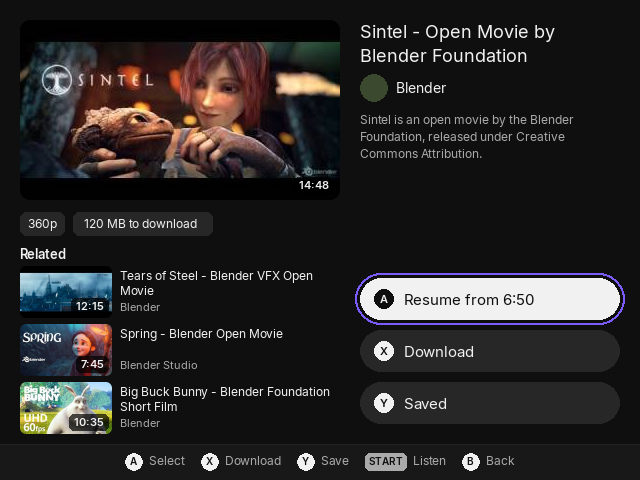
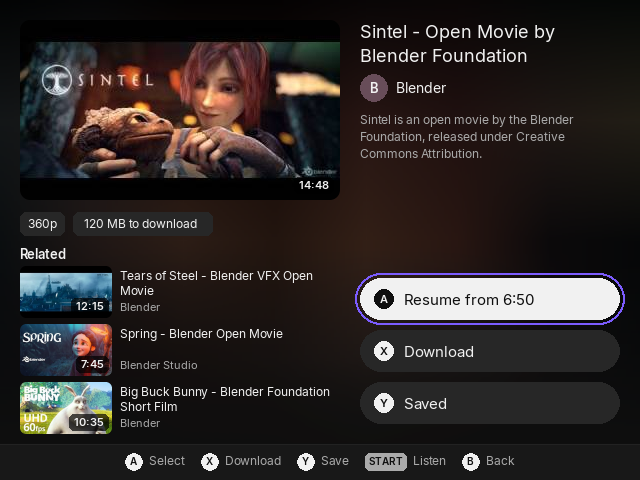
Glide the active tab pill, add Watch later to Home, ambient video background, empty states

diff --git a/userdata/system/pockettube/main.py b/userdata/system/pockettube/main.py
@@ -43,6 +43,7 @@ ERR_SOFT = (255, 138, 155)
 BADGE = (0, 0, 0, 175)  # translucent duration badge
 FOCUS_W = 2  # width of the accent focus ring
 CARD_ZOOM = 1.04  # focused Home card scale
+AMBIENT = (85, 85, 85)  # brightness of the blurred thumbnail behind the video screen (multiplied, 255 = full)
 ERR_BG, ERR_FG = (58, 20, 24), (255, 218, 223)
 TINTS = [(59, 47, 74), (47, 74, 68), (74, 59, 47), (47, 61, 74), (74, 47, 59), (59, 74, 47)]
 
@@ -162,6 +163,7 @@ class App:
             pass
         self.logo_cache = {}
         self.masks, self.round_cache, self.badges = {}, {}, {}
+        self.ambient_bg = (None, None)
         self.toasts = []
         self.anims, self.anim_prev, self.anim_now, self.focus_ring, self.list_off = {}, set(), set(), None, 0
         self.store = store_mod.Store()
@@ -175,7 +177,7 @@ class App:
 
         self.view = "home" if services.is_online() else "offline"
         self.back_view = "home"
-        self.home_row, self.home_col = 0, 0
+        self.home_row, self.home_col, self.home_chip_n = 0, 0, 6
         self.query, self.lang = "", self.store.settings.get("kb_layout", "en")
         self.kx, self.ky = 0, 1
         self.sugg, self.sugg_i, self.sugg_for, self.sugg_due, self.sugg_task = [], 0, "", 0, None
@@ -321,12 +323,23 @@ class App:
             total = sum(widths) + 4 * (len(TABS) - 1) + 2 * (26 + 5)
             x = 54 + max(0, (468 - total) // 2)
             x += self.draw_key("L1", x, 14, small=True) + 5
-            for name, label, w in zip(TABS, labels, widths):
-                on = name == active
-                pygame.draw.rect(s, FG if on else SURF, (x, 11, w, 26), border_radius=8)
-                text(s, label, (x + w // 2, 16), 12, INK if on else FG, on, center=True)
+            spots = []
+            for w in widths:
+                spots.append((x, w))
                 x += w + 4
             self.draw_key("R1", x, 14, small=True)
+            # one pill glides to the active tab; labels are light text, and dark only inside the pill,
+            # so every in-between frame reads correctly
+            for label, (tx, w) in zip(labels, spots):
+                text(s, label, (tx + w // 2, 16), 12, DIM, center=True)
+            if active in TABS:
+                px, pw = self.anim("tab_pill", spots[TABS.index(active)], 0.4)
+                pill = pygame.Rect(round(px), 11, round(pw), 26)
+                pygame.draw.rect(s, FG, pill, border_radius=13)
+                s.set_clip(pill)
+                for name, label, (tx, w) in zip(TABS, labels, spots):
+                    text(s, label, (tx + w // 2, 16), 12, INK, name == active, center=True)
+                s.set_clip(None)
         self.draw_status(W - 16, 24)
 
     def draw_key(self, label, x, y, small=False, light=True):
@@ -435,10 +448,38 @@ class App:
         elif status:
             text(s, status, (156, cy + 17), 12, DIM)
 
-    def draw_list(self, items, sel, top_y, row_fn, empty_text):
+    def draw_icon(self, kind, cx, cy, color):
+        """Simple line icons for empty states, about 28 px."""
         s = self.screen
+        if kind == "search":
+            pygame.draw.circle(s, color, (cx - 3, cy - 3), 10, 3)
+            pygame.draw.line(s, color, (cx + 5, cy + 5), (cx + 12, cy + 12), 4)
+        elif kind == "history":
+            pygame.draw.circle(s, color, (cx, cy), 13, 3)
+            pygame.draw.line(s, color, (cx, cy), (cx, cy - 8), 3)
+            pygame.draw.line(s, color, (cx, cy), (cx + 6, cy + 4), 3)
+        elif kind == "download":
+            pygame.draw.line(s, color, (cx, cy - 13), (cx, cy + 3), 3)
+            pygame.draw.polygon(s, color, [(cx - 7, cy - 2), (cx + 7, cy - 2), (cx, cy + 6)])
+            pygame.draw.line(s, color, (cx - 12, cy + 12), (cx + 12, cy + 12), 3)
+        else:  # list
+            for i in range(3):
+                pygame.draw.circle(s, color, (cx - 10, cy - 8 + i * 8), 2)
+                pygame.draw.line(s, color, (cx - 4, cy - 8 + i * 8), (cx + 12, cy - 8 + i * 8), 3)
+
+    def draw_empty(self, title, hint=None, icon="list", top_y=60):
+        s = self.screen
+        cy = top_y + (H - 36 - top_y) // 2 - 40
+        pygame.draw.circle(s, SURF_LOW, (W // 2, cy), 40)
+        self.draw_icon(icon, W // 2, cy, MUTED)
+        text(s, title, (W // 2, cy + 54), 16, FG, center=True, max_w=W - 60)
+        if hint:
+            for i, line in enumerate(wrap(hint, font(13), W - 120, 2)):
+                text(s, line, (W // 2, cy + 80 + i * 18), 13, DIM, center=True)
+
+    def draw_list(self, items, sel, top_y, row_fn, empty_text, icon="list", hint=None):
         if not items:
-            text(s, empty_text, (W // 2, top_y + 120), 14, DIM, center=True)
+            self.draw_empty(empty_text, hint, icon, top_y)
             return
         per = max(1, (H - 36 - top_y) // 84)
         first = max(0, min(sel - 1, len(items) - per))
@@ -503,16 +544,38 @@ class App:
         self.draw_toasts()
         pygame.display.flip()
 
+    def home_rows(self):
+        """Home sections that have something to focus, top to bottom: [(name, items)]."""
+        wl = self.store.playlist(store_mod.WATCH_LATER) or {}
+        rows = [("cards", self.home_cards()), ("later", (wl.get("items") or [])[:4]),
+                ("chips", self.store.queries[:min(6, self.home_chip_n)])]
+        return [(name, items) for name, items in rows if items]
+
+    def home_focus(self):
+        rows = self.home_rows()
+        if not rows:
+            return None, 0
+        self.home_row = max(0, min(self.home_row, len(rows) - 1))
+        name, items = rows[self.home_row]
+        self.home_col = max(0, min(self.home_col, len(items) - 1))
+        return name, self.home_col
+
     def draw_home(self):
         s = self.screen
         self.draw_header("home")
-        text(s, T("continue_watching"), (16, 60), 15, FG, True)
+        focus = self.home_focus()
         cards = self.home_cards()
-        if not cards:
-            text(s, T("home_empty"), (16, 92), 13, DIM)
+        later = (self.store.playlist(store_mod.WATCH_LATER) or {}).get("items") or []
+        hints = [("A", T("hint_open")), ("Y", T("hint_search")), ("L1 R1", T("hint_sections")), ("SELECT", T("settings")), ("B", T("hint_exit"))]
+        if not (cards or later or self.store.queries):  # first run: one welcoming empty state
+            self.draw_empty(T("home_empty"), T("searches_empty"), "search", 48)
+            self.draw_footer(hints)
+            return
+        if cards:
+            text(s, T("continue_watching"), (16, 60), 15, FG, True)
         for i, v in enumerate(cards):
             x, y = 16 + i * 200, 88
-            on = self.home_row == 0 and self.home_col == i
+            on = focus == ("cards", i)
             # the focused card grows a little; ring targets the final size so it doesn't chase the zoom
             zoom = self.anim(f"zoom:{v['id']}", (CARD_ZOOM if on else 1.0,))[0]
             full = pygame.Rect(0, 0, round(188 * CARD_ZOOM), round(106 * CARD_ZOOM))
@@ -531,15 +594,32 @@ class App:
             for j, line in enumerate(wrap(v["title"], font(12), 188, 2)):
                 text(s, line, (x, y + 112 + j * 15), 12, FG)
             text(s, v.get("channel", ""), (x, y + 144), 11, DIM, max_w=188)
-        text(s, T("recent_searches"), (16, 262), 15, FG, True)
+        top = 248 if cards else 56  # an empty "Continue watching" is hidden when there's other content
+        if later:
+            text(s, T("watch_later"), (16, top + 4), 15, FG, True)
+            for i, v in enumerate(later[:4]):
+                x, y = 16 + i * 150, top + 28
+                if focus == ("later", i):
+                    self.hl((x, y, 136, 77), 6, grow=6)
+                self.draw_thumb(v["id"], x, y, 136, 77, i)
+                live = v.get("live")
+                self.draw_badge("LIVE" if live else youtube.format_duration(v.get("duration")), x + 132, y + 73, red=live)
+                text(s, v.get("title", ""), (x, y + 81), 12, FG, max_w=136)
+            top += 124
+        head = top + (8 if later else 14 if cards else 4)
+        text(s, T("recent_searches"), (16, head), 15, FG, True)
         if not self.store.queries:
-            text(s, T("searches_empty"), (16, 292), 13, DIM)
-        x, y = 16, 290
+            text(s, T("searches_empty"), (16, head + 30), 13, DIM)
+        x, y = 16, head + 24 if later else head + 28
+        self.home_chip_n = 0
         for i, q in enumerate(self.store.queries[:6]):
             w = font(13).size(clean(q))[0] + 46
             if x + w > W - 16:
                 x, y = 16, y + 42
-            on = self.home_row == 1 and self.home_col == i
+            if y + 32 > H - 38:  # no room for another row of chips above the footer
+                break
+            self.home_chip_n = i + 1
+            on = focus == ("chips", i)
             if on:
                 self.hl((x, y, w, 32), 16, grow=8)
             pygame.draw.rect(s, FG if on else SURF, (x, y, w, 32), border_radius=16)
@@ -547,7 +627,7 @@ class App:
             pygame.draw.line(s, INK if on else DIM, (x + 19, y + 16), (x + 19, y + 12), 2)
             text(s, q, (x + 32, y + 8), 13, INK if on else FG)
             x += w + 8
-        self.draw_footer([("A", T("hint_open")), ("Y", T("hint_search")), ("L1 R1", T("hint_sections")), ("SELECT", T("settings")), ("B", T("hint_exit"))])
+        self.draw_footer(hints)
 
     def home_cards(self):
         hist = self.store.history
@@ -627,7 +707,7 @@ class App:
             self.draw_skeleton(100)
         else:
             self.draw_list(self.results, self.sel, 100,
-                           lambda y, v, i, on: self.draw_video_row(y, v, i, on), T("nothing_found"))
+                           lambda y, v, i, on: self.draw_video_row(y, v, i, on), T("nothing_found"), "search", T("nothing_found_hint"))
         self.draw_footer([("A", T("hint_open")), ("X", T("filters")), ("Y", T("hint_new_search")), ("L1 R1", T("hint_sections")), ("B", T("hint_back"))])
         if self.filter_open:
             self.draw_filters()
@@ -655,7 +735,7 @@ class App:
     def draw_history(self):
         self.draw_header("history")
         items = self.store.history
-        self.draw_list(items, self.hsel, 58, self.history_row, T("history_empty"))
+        self.draw_list(items, self.hsel, 58, self.history_row, T("history_empty"), "history", T("home_empty"))
         self.draw_footer([("A", T("hint_open")), ("X", T("hint_remove")), ("L1 R1", T("hint_sections")), ("B", T("hint_back"))])
 
     def history_row(self, y, v, i, on):
@@ -676,7 +756,7 @@ class App:
             text(s, T("offline_banner"), (W // 2 - 132, top + 6), 12, SOFT)
             top += 34
         self.draw_list(self.store.downloads, self.dsel, top, self.download_row,
-                       T("downloads_empty"))
+                       T("downloads_empty"), "download", T("downloads_empty_hint"))
         self.draw_footer([("A", T("hint_watch")), ("X", T("hint_delete_cancel")), ("L1 R1", T("hint_sections")), ("B", T("hint_back"))])
 
     def download_row(self, y, d, i, on):
@@ -691,9 +771,37 @@ class App:
         else:
             self.draw_video_row(y, d, i, on, d.get("error") or T("dl_error"))
 
+    def ambient(self, vid):
+        """The video's thumbnail blurred into a dark colour wash for the background; built once per video."""
+        if self.ambient_bg[0] != vid:
+            img = self.thumbs.get(vid, 320, 180) if vid else None
+            if img is None:
+                return None
+            wash = pygame.transform.smoothscale(pygame.transform.smoothscale(img, (8, 5)), (W, H))
+            wash.fill(AMBIENT, special_flags=pygame.BLEND_MULT)
+            fade = pygame.Surface((W, 200), pygame.SRCALPHA)  # melt into the page background towards the bottom
+            for i in range(200):
+                pygame.draw.line(fade, BG + (int(255 * i / 199),), (0, i), (W, i))
+            wash.blit(fade, (0, H - 236))
+            pygame.draw.rect(wash, BG, (0, H - 36, W, 36))
+            self.ambient_bg = (vid, wash)
+        return self.ambient_bg[1]
+
+    def draw_avatar(self, name, cx, cy, r=14):
+        name = clean(name).strip()
+        tint = TINTS[sum(map(ord, name)) % len(TINTS)]
+        pygame.draw.circle(self.screen, tuple(min(255, c + 30) for c in tint), (cx, cy), r)
+        letter = next((ch for ch in name if ch.isalnum()), "")
+        if letter:
+            img = font(13, True).render(letter.upper(), True, FG)
+            self.screen.blit(img, (cx - img.get_width() // 2, cy - img.get_height() // 2))
+
     def draw_video(self):
         s, v = self.screen, self.video
         det = self.details
+        wash = self.ambient(v["id"])
+        if wash:
+            s.blit(wash, (0, 0))
         self.draw_thumb(v["id"], 20, 20, 320, 180, 2)
         if v.get("live") or (det and det.get("live")):
             self.draw_badge("LIVE", 334, 194, red=True)
@@ -720,7 +828,7 @@ class App:
             text(s, line, (360, y), 18, FG)
             y += 24
         y += 6
-        pygame.draw.circle(s, TINTS[5], (374, y + 14), 14)
+        self.draw_avatar(v.get("channel", ""), 374, y + 14)
         text(s, v.get("channel", ""), (396, y + 5), 14, FG, max_w=224)
         y += 38
         if self.details_task and not self.details_task.done:
@@ -1060,20 +1168,21 @@ class App:
         return getattr(self, "key_" + self.view)(key)
 
     def key_home(self, key):
-        cards, chips = self.home_cards(), self.store.queries[:6]
-        if key in (pygame.K_UP, pygame.K_DOWN):
-            self.home_row = 0 if key == pygame.K_UP else 1
-            self.home_col = 0
+        rows = self.home_rows()
+        name, col = self.home_focus()
+        if key in (pygame.K_UP, pygame.K_DOWN) and rows:
+            self.home_row = max(0, min(len(rows) - 1, self.home_row + (-1 if key == pygame.K_UP else 1)))
+            self.home_col = min(col, len(rows[self.home_row][1]) - 1)
         elif key == pygame.K_LEFT:
-            self.home_col = max(0, self.home_col - 1)
-        elif key == pygame.K_RIGHT:
-            limit = len(cards) if self.home_row == 0 else len(chips)
-            self.home_col = min(max(0, limit - 1), self.home_col + 1)
-        elif key == K_A:
-            if self.home_row == 0 and self.home_col < len(cards):
-                self.open_video(cards[self.home_col])
-            elif self.home_row == 1 and self.home_col < len(chips):
-                self.do_search(chips[self.home_col])
+            self.home_col = max(0, col - 1)
+        elif key == pygame.K_RIGHT and rows:
+            self.home_col = min(len(rows[self.home_row][1]) - 1, col + 1)
+        elif key == K_A and rows:
+            item = rows[self.home_row][1][col]
+            if name == "chips":
+                self.do_search(item)
+            else:
+                self.open_video(item)
         elif key == K_Y:
             self.view = "search"
         elif key == K_B:
@@ -1337,7 +1446,8 @@ class App:
         if loading:
             self.draw_skeleton(80)
         else:
-            self.draw_list(pl["items"], self.pisel, 80, lambda y, v, i, on: self.draw_video_row(y, v, i, on), T("playlist_empty"))
+            self.draw_list(pl["items"], self.pisel, 80, lambda y, v, i, on: self.draw_video_row(y, v, i, on), T("playlist_empty"),
+                           "list", None if pl["remote"] else T("playlist_empty_hint"))
         hints = [("A", T("hint_open")), ("START", T("hint_play_all"))]
         hints.append(("Y", T("hint_save_playlist")) if pl["remote"] else ("X", T("hint_remove")))
         hints.append(("B", T("hint_back")))

diff --git a/userdata/system/pockettube/i18n.py b/userdata/system/pockettube/i18n.py
@@ -170,6 +170,9 @@ STRINGS = {
     "n_videos": ("{n} videos", "Видео: {n}", "{n} video"),
     "n_videos_1": ("1 video", "Видео: 1", "1 video"),
     "playlist_empty": ("No videos yet", "Пока нет видео", "Henüz video yok"),
+    "playlist_empty_hint": ("Open a video and press Y to save it here", "Откройте видео и нажмите Y, чтобы сохранить его сюда", "Bir video açın ve buraya kaydetmek için Y'ye basın"),
+    "downloads_empty_hint": ("Open a video and press X to download it", "Откройте видео и нажмите X, чтобы скачать его", "Bir video açın ve indirmek için X'e basın"),
+    "nothing_found_hint": ("Try other words or change the filters with X", "Попробуйте другие слова или измените фильтры кнопкой X", "Başka kelimeler deneyin veya X ile filtreleri değiştirin"),
     "playlist_created": ("Playlist created: {name}", "Плейлист создан: {name}", "Liste oluşturuldu: {name}"),
     "playlist_deleted": ("Playlist deleted", "Плейлист удалён", "Liste silindi"),
     "press_again_delete": ("Press X again to delete", "Нажмите X ещё раз, чтобы удалить", "Silmek için X'e tekrar basın"),

diff --git a/tools/screenshots.py b/tools/screenshots.py
@@ -78,6 +78,7 @@ app.store.save = lambda: None
 
 
 def shot(lang, name):
+    app.anim_now = set()  # start animations from rest so each screenshot shows the settled state
     app.draw()
     pg.image.save(app.screen, os.path.join(OUT, f"{lang}-{name}.png"))
 

diff --git a/CHANGELOG.md b/CHANGELOG.md
@@ -8,6 +8,10 @@
 - One focus style everywhere: a purple ring that glides to the selected item; lists scroll smoothly under it.
 - Thumbnails have anti-aliased rounded corners; duration badges are translucent; the focused Home card grows slightly and its progress bar sits inside the thumbnail.
 - Loading placeholders shimmer.
+- Header: inactive tabs are plain text and the active-tab pill glides on L1/R1.
+- Home shows a Watch later row and only the sections that have something in them; on first run it shows a single welcome state.
+- Video screen: the background takes on the thumbnail's colours, and the channel gets a letter avatar.
+- Empty History, Downloads, playlists and search results show an icon and a hint for what to do next.
 
 ## 1.0
 
